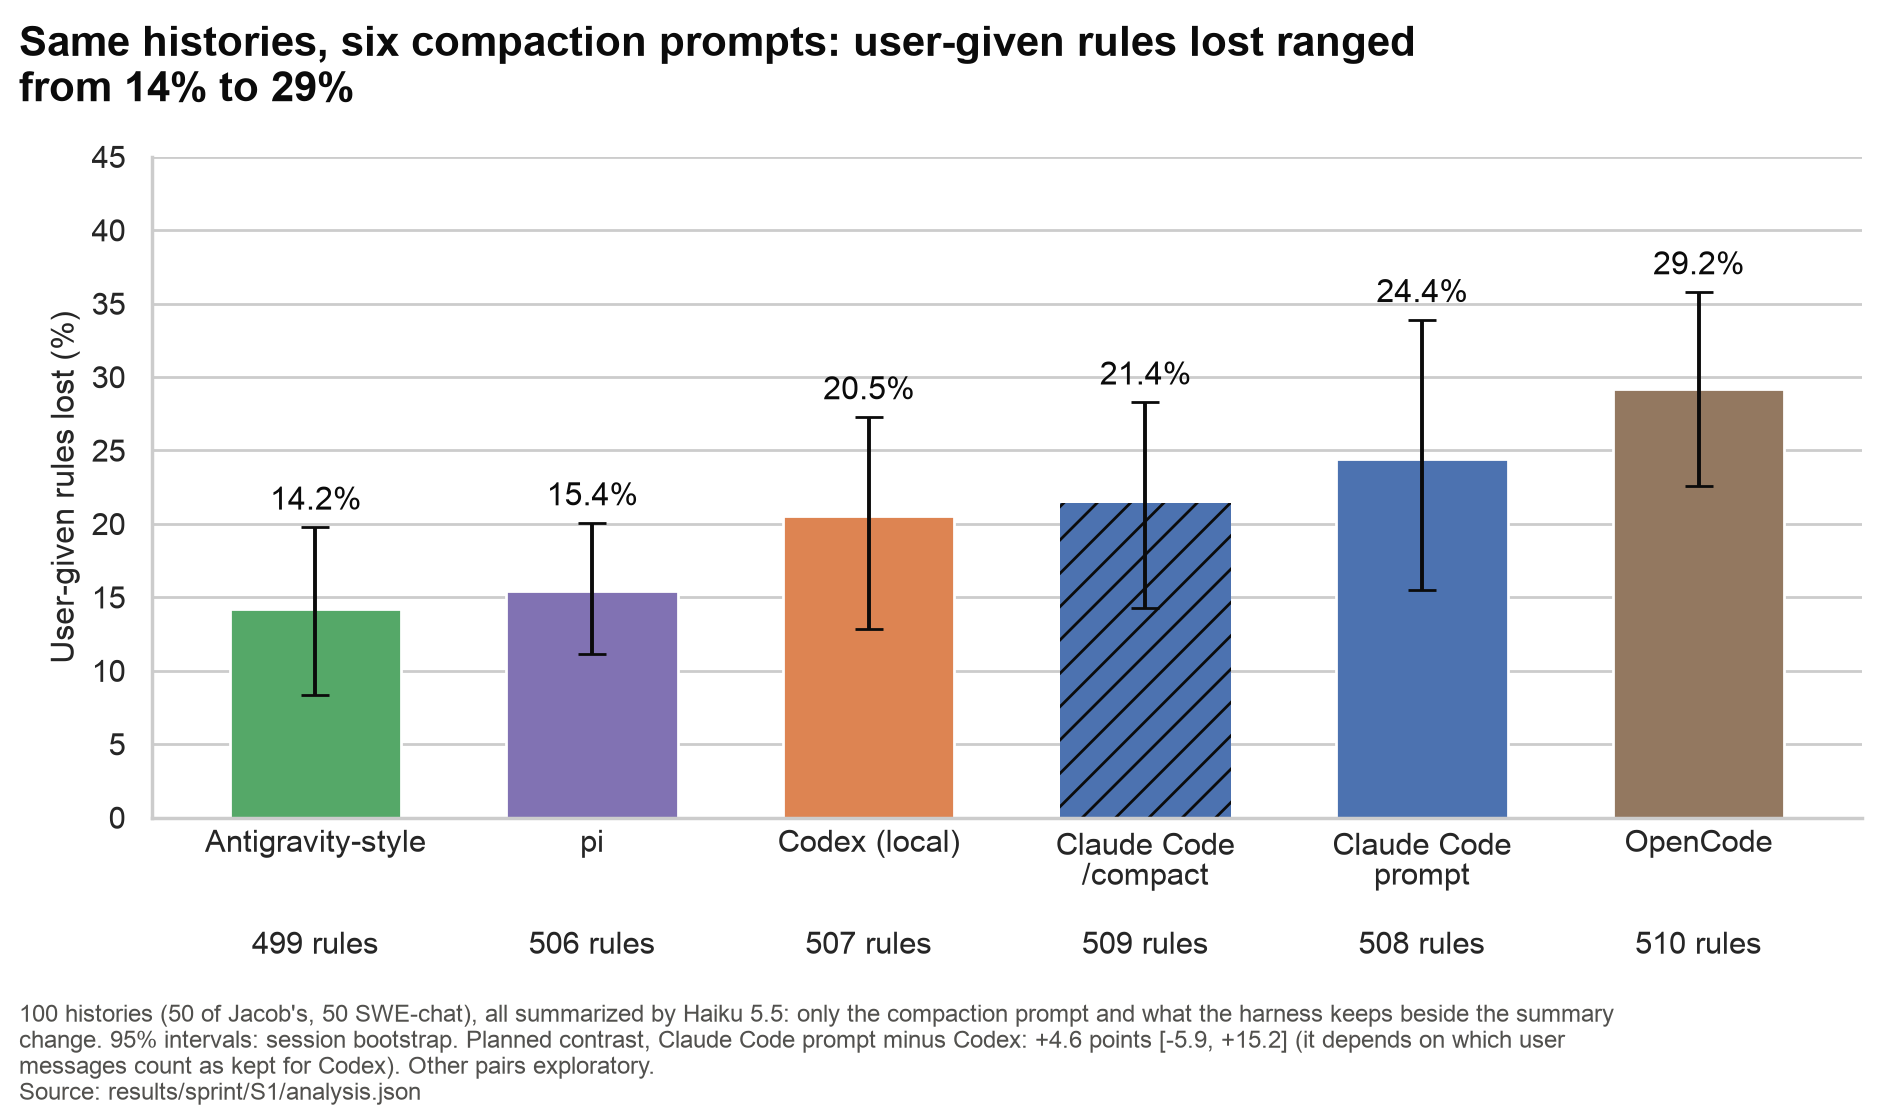
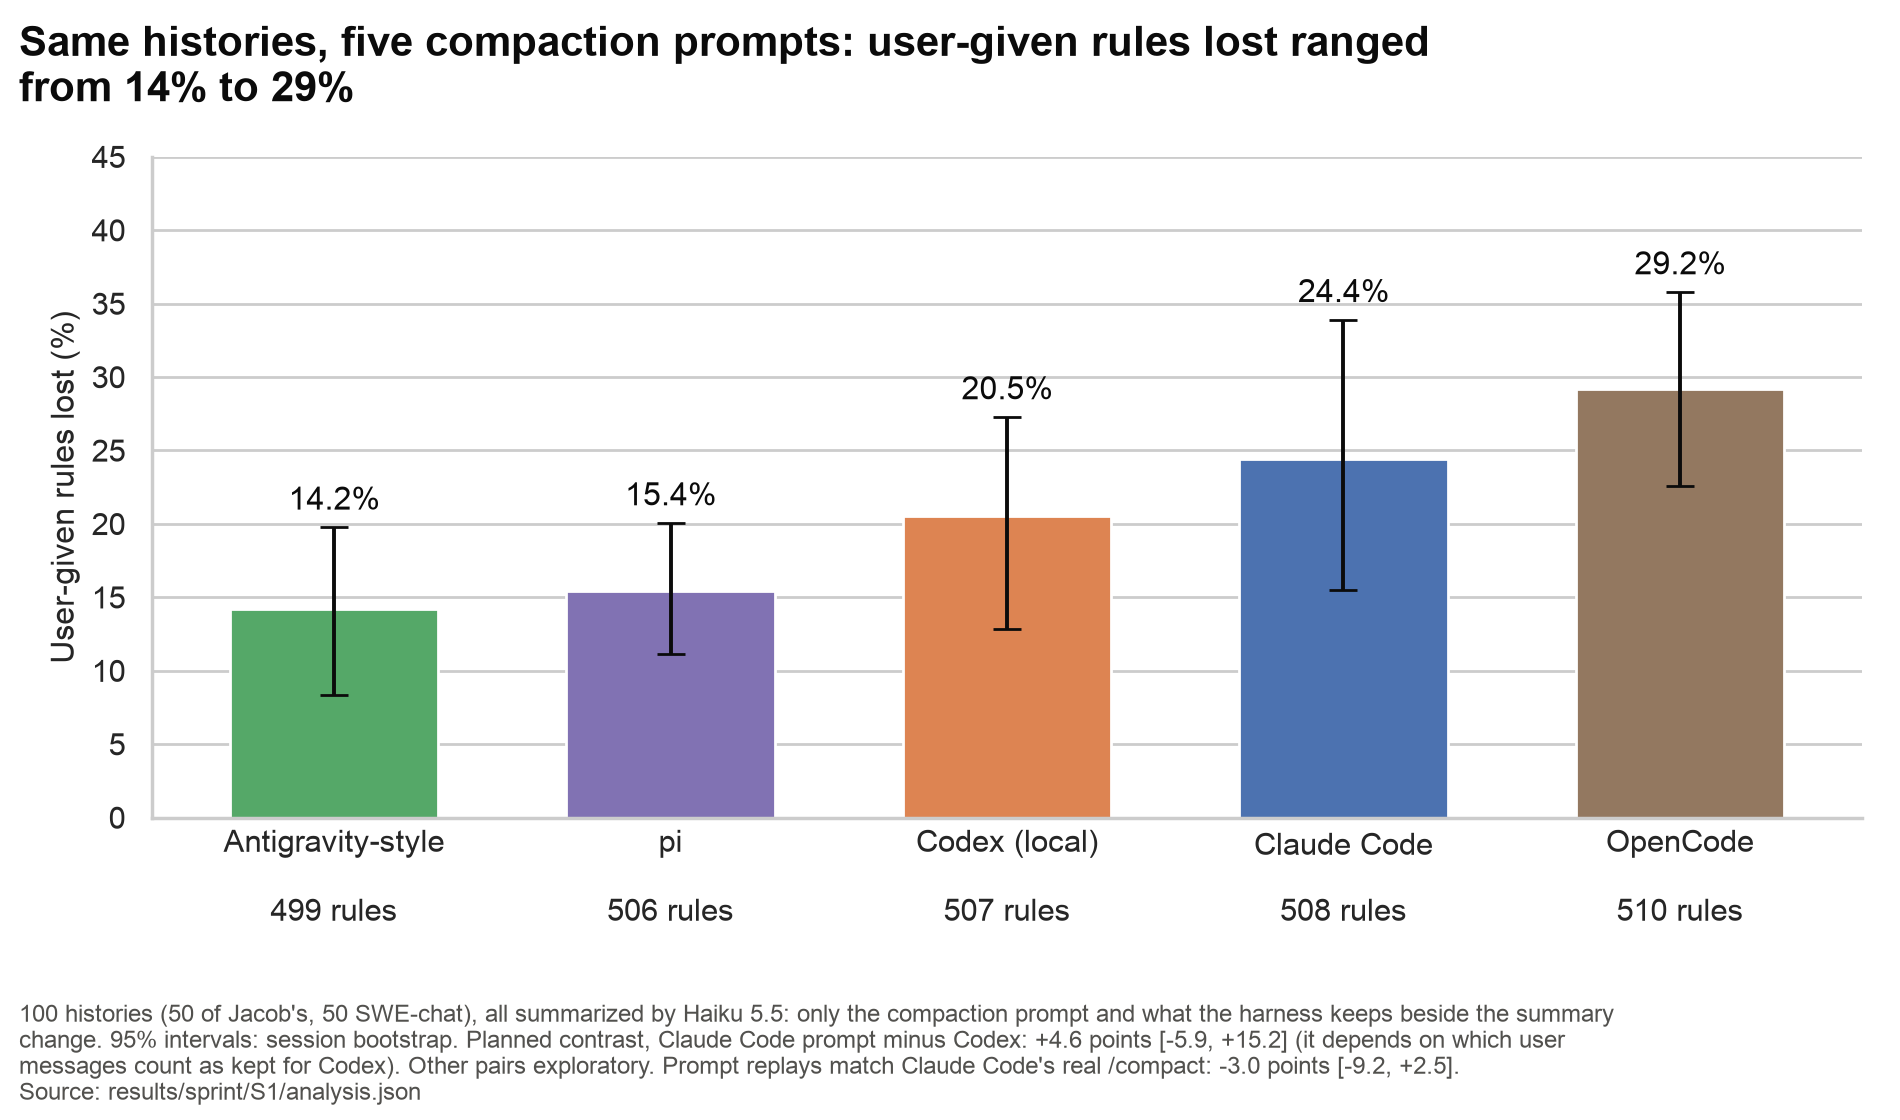
docs/sprint: summarizer figure without the real /compact bar (now a footer line)

diff --git a/docs/sprint/figs/prompts/README.md b/docs/sprint/figs/prompts/README.md
@@ -1,8 +1,8 @@
-# Six-summarizer figure
+# Summarizer comparison figure
 
 Generated by `scripts/sprint_figs_prompts.py`; every number is read from the source file at run time. PNG (200 dpi) and SVG.
 
-## 01_rules_lost_by_prompt: Same histories, six compaction prompts: user-given rules lost ranged from 14% to 29%
+## 01_rules_lost_by_prompt: Same histories, five compaction prompts: user-given rules lost ranged from 14% to 29%
 
 ![rules lost by prompt](01_rules_lost_by_prompt.png)
 
@@ -14,8 +14,8 @@ Generated by `scripts/sprint_figs_prompts.py`; every number is read from the sou
 - Antigravity-style: 14.2% [8.4, 19.8]; 499 rules
 - pi: 15.4% [11.1, 20.1]; 506 rules
 - Codex (local): 20.5% [12.9, 27.3]; 507 rules
-- Claude Code /compact: 21.4% [14.3, 28.3]; 509 rules
-- Claude Code prompt: 24.4% [15.5, 33.9]; 508 rules
+- Claude Code: 24.4% [15.5, 33.9]; 508 rules
 - OpenCode: 29.2% [22.6, 35.8]; 510 rules
 
 - Planned contrast (Claude Code prompt minus Codex): +4.6 points [-5.9, +15.2].
+- Real /compact minus the Claude Code prompt replay (footer only): -3.0 points [-9.2, +2.5] (exploratory.cc_native-cc_prompt).
